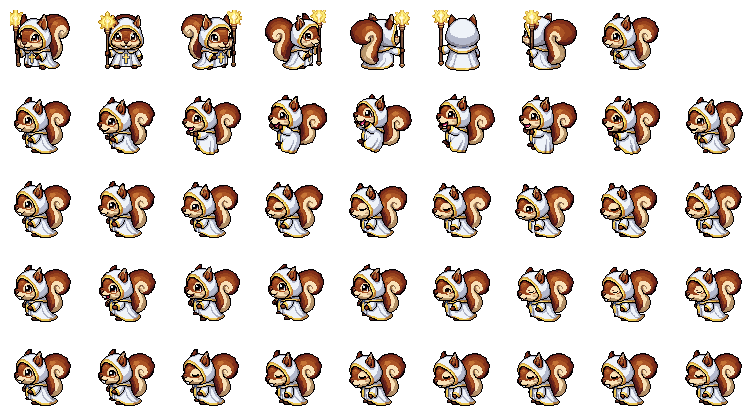
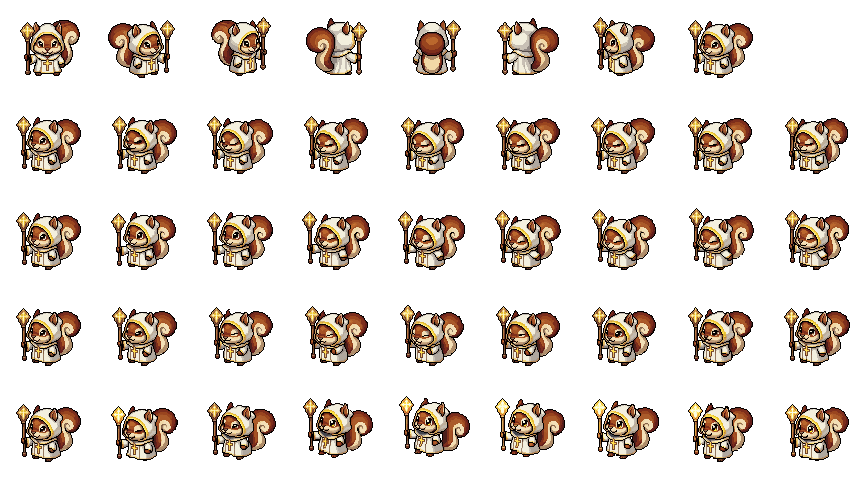
fix(pet): cría clérigo — estado nuevo con la maza visible en south-west (#1069)
Claude-Session: https://claude.ai/code/session_01MAe5vgjS1WbkyRKC8pfRDf

diff --git a/src/lib/pet/sheets.gen.ts b/src/lib/pet/sheets.gen.ts
@@ -121,9 +121,9 @@ export const PET_SHEETS = {
       }
     },
     "cleric": {
-      "cell": 84,
-      "width": 756,
-      "height": 420,
+      "cell": 96,
+      "width": 864,
+      "height": 480,
       "columns": 9,
       "directions": [
         "south",
@@ -146,11 +146,11 @@ export const PET_SHEETS = {
           "frames": 9
         },
         "sad": {
-          "row": 4,
+          "row": 1,
           "frames": 9
         },
         "joy": {
-          "row": 1,
+          "row": 4,
           "frames": 9
         }
       }
